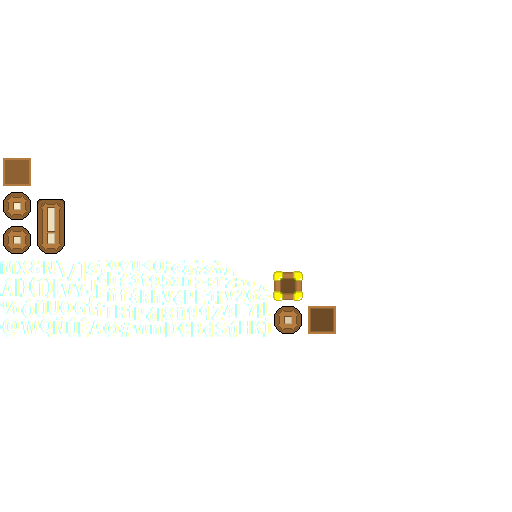
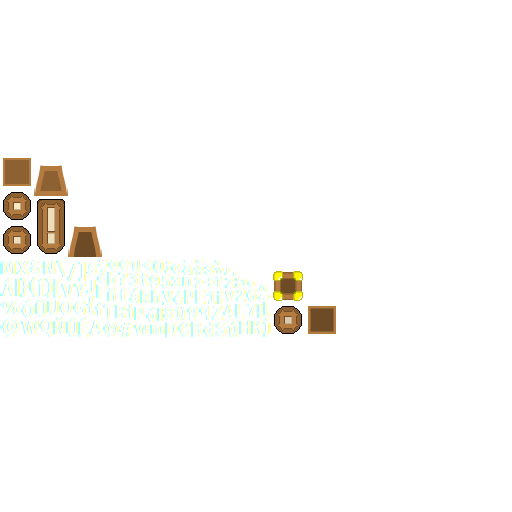
#71 #51 #39 Creating the Dock dialog to upgrade stats Added the Tab button style

Changed region(s): [[0.0625, 0.3125, 0.1562, 0.4062], [0.125, 0.4375, 0.2188, 0.5]]

diff --git a/core/src/com/hfentonfearn/ui/DockDialog.java b/core/src/com/hfentonfearn/ui/DockDialog.java
@@ -18,6 +18,7 @@ public class DockDialog extends Window {
 
     Table contentTable;
     private Skin skin;
+    private TextButton[] tabs = new TextButton[5];
 
     public DockDialog(Skin skin) {
         super("", skin, "inventory");
@@ -32,6 +33,27 @@ public class DockDialog extends Window {
         setMovable(false);
         setModal(true);
 
+
+
+        ShipStatisticComponent stats = Components.STATS.get(PlayerComponent.player);
+
+        tabs[0] = new TextButton("Speed",skin,"tab");
+        tabs[0].setChecked(true);
+
+        tabs[1] = new TextButton("Steering",skin, "tab");
+        tabs[2] = new TextButton("Hull",skin, "tab");
+        tabs[3] = new TextButton("Cannons",skin, "tab");
+        tabs[4] = new TextButton("Cargo",skin, "tab");
+
+        contentTable.add(tabs[0]).prefWidth(200);
+        contentTable.add(tabs[1]).prefWidth(200);
+        contentTable.add(tabs[2]).prefWidth(200);
+        contentTable.add(tabs[3]).prefWidth(200);
+        contentTable.add(tabs[4]).prefWidth(200);
+        contentTable.row();
+        contentTable.add(new Container<>()).colspan(5).prefHeight(500);
+        contentTable.row();
+
         TextButton closeButton = new TextButton("Close", skin, "inventory");
         closeButton.pad(10);
         closeButton.addListener(new ChangeListener() {
@@ -42,22 +64,8 @@ public class DockDialog extends Window {
             }
         });
 
-        ShipStatisticComponent stats = Components.STATS.get(PlayerComponent.player);
-        createStatRow("Range:", stats.getFirerange());
-
-        contentTable.add(closeButton);
-    }
-
-    private void createStatRow(String s, float f) {
-
-        Label lbl = new Label(s, skin, "inventory");
-        contentTable.row();
-        contentTable.add(lbl);
-
-        TextButton btn = new TextButton("+", skin);
-        btn.
-        contentTable.add();
-
+        contentTable.add(new TextButton("Repair Hull",skin)).prefWidth(200).left().colspan(4);
+        contentTable.add(closeButton).right();
     }
 
     public void show (Stage stage) {

diff --git a/core/src/com/hfentonfearn/utils/DeveloperTools.java b/core/src/com/hfentonfearn/utils/DeveloperTools.java
@@ -10,7 +10,9 @@ import com.hfentonfearn.GameManager;
 import com.hfentonfearn.components.PlayerComponent;
 import com.hfentonfearn.ecs.EntityFactory;
 import com.hfentonfearn.entitysystems.CameraSystem;
+import com.hfentonfearn.entitysystems.GUISystem;
 import com.hfentonfearn.entitysystems.ParticleSystem;
+import com.hfentonfearn.ui.DockDialog;
 
 public class DeveloperTools {
 
@@ -46,5 +48,10 @@ public class DeveloperTools {
         PooledEngine engine = GameManager.getEngine();
         Vector2 pos = engine.getSystem(CameraSystem.class).screenToWorldCords(Gdx.input.getX(), Gdx.input.getY());
         EntityFactory.createParticle(pos, ParticleSystem.ParticleType.WATER, 0);
+    }
+
+    public static void openDockDialog() {
+        PooledEngine engine = GameManager.getEngine();
+        new DockDialog(AssetLoader.skin).show(engine.getSystem(GUISystem.class).getStage());
     }
 }

diff --git a/core/src/com/hfentonfearn/components/ShipStatisticComponent.java b/core/src/com/hfentonfearn/components/ShipStatisticComponent.java
@@ -74,26 +74,32 @@ public class ShipStatisticComponent implements Component , Poolable {
     //Setters
     public void setInventorySize(int inventorySize) {
         this.inventorySize = inventorySize;
+        changed = true;
     }
 
     public void setFirerange(float firerange) {
         this.firerange = firerange;
+        changed = true;
     }
 
     public void setFirerate(int firerate) {
         this.firerate = firerate;
+        changed = true;
     }
 
     public void setMaxHull(float maxHull) {
         this.maxHull = maxHull;
+        changed = true;
     }
 
     public void setSpeed(float speed) {
         this.speed = speed;
+        changed = true;
     }
 
     public void setSteering(float steering) {
         this.steering = steering;
+        changed = true;
     }
 
     /**

diff --git a/core/src/com/hfentonfearn/ui/actions/DockActionButton.java b/core/src/com/hfentonfearn/ui/actions/DockActionButton.java
@@ -1,6 +1,7 @@
 package com.hfentonfearn.ui.actions;
 
 import com.badlogic.gdx.graphics.g2d.Sprite;
+import com.hfentonfearn.GameManager;
 import com.hfentonfearn.entitysystems.GUISystem;
 import com.hfentonfearn.ui.DockDialog;
 import com.hfentonfearn.utils.AssetLoader;
@@ -17,8 +18,8 @@ public class DockActionButton extends ActionButton{
     @Override
     public void onClick() {
         //Show Docks Gui
-        DockDialog dock = new DockDialog(AssetLoader.skin);
-        dock.show(guiSystem.getStage());
+        GameManager.pause();
+        new DockDialog(AssetLoader.skin).show(guiSystem.getStage());
     }
 
 }

diff --git a/core/src/com/hfentonfearn/ui/PauseDialog.java b/core/src/com/hfentonfearn/ui/PauseDialog.java
@@ -47,11 +47,11 @@ public class PauseDialog extends Dialog {
             }
         });
 
-        getButtonTable().add(mainMenuButton).pad(5);
+        getButtonTable().add(mainMenuButton).pad(5).prefWidth(200);
         getButtonTable().row();
-        getButtonTable().add(closeButton);
+        getButtonTable().add(closeButton).prefWidth(200);
         getButtonTable().row();
-        getButtonTable().add(exitButton).pad(5);
+        getButtonTable().add(exitButton).pad(5).prefWidth(200);
 
     }
 }

diff --git a/core/src/com/hfentonfearn/inputs/DeveloperInputProcessor.java b/core/src/com/hfentonfearn/inputs/DeveloperInputProcessor.java
@@ -16,6 +16,9 @@ public class DeveloperInputProcessor extends InputAdapter {
             case Keys.F2:
                 DeveloperTools.decPlayerSpeedState();
                 return true;
+            case Keys.F3:
+                DeveloperTools.openDockDialog();
+                return true;
             case Keys.F4:
                 DeveloperTools.spawnDeadEnemyAtCursor();
                 return true;
